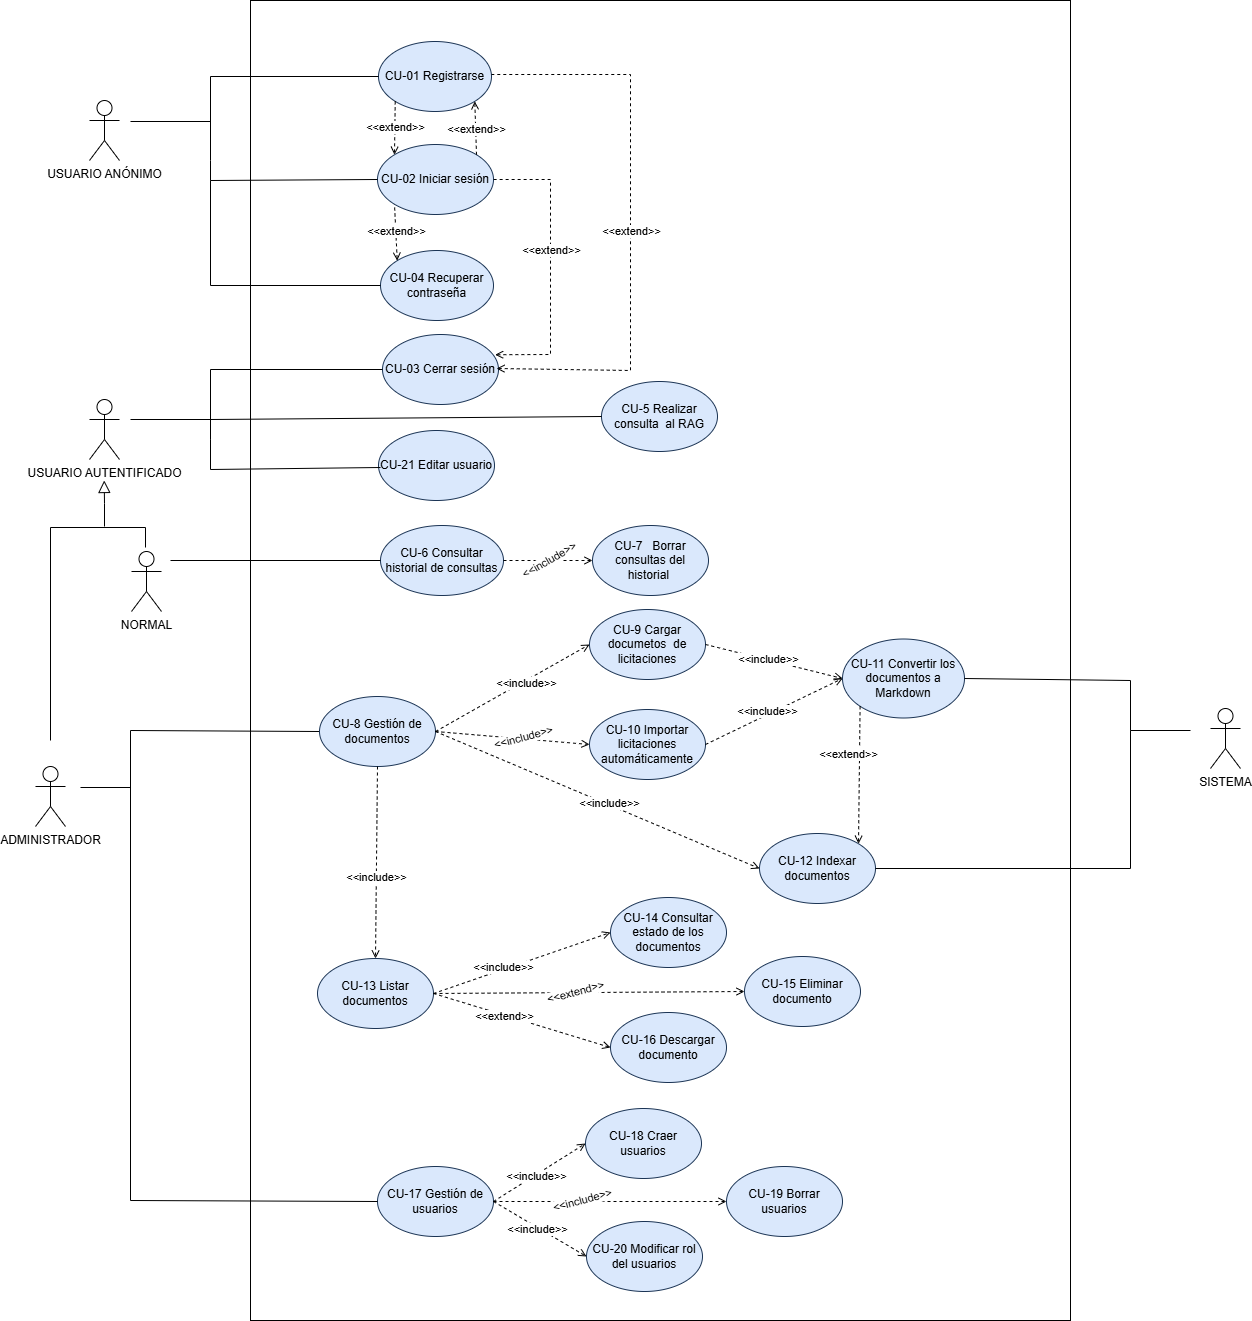
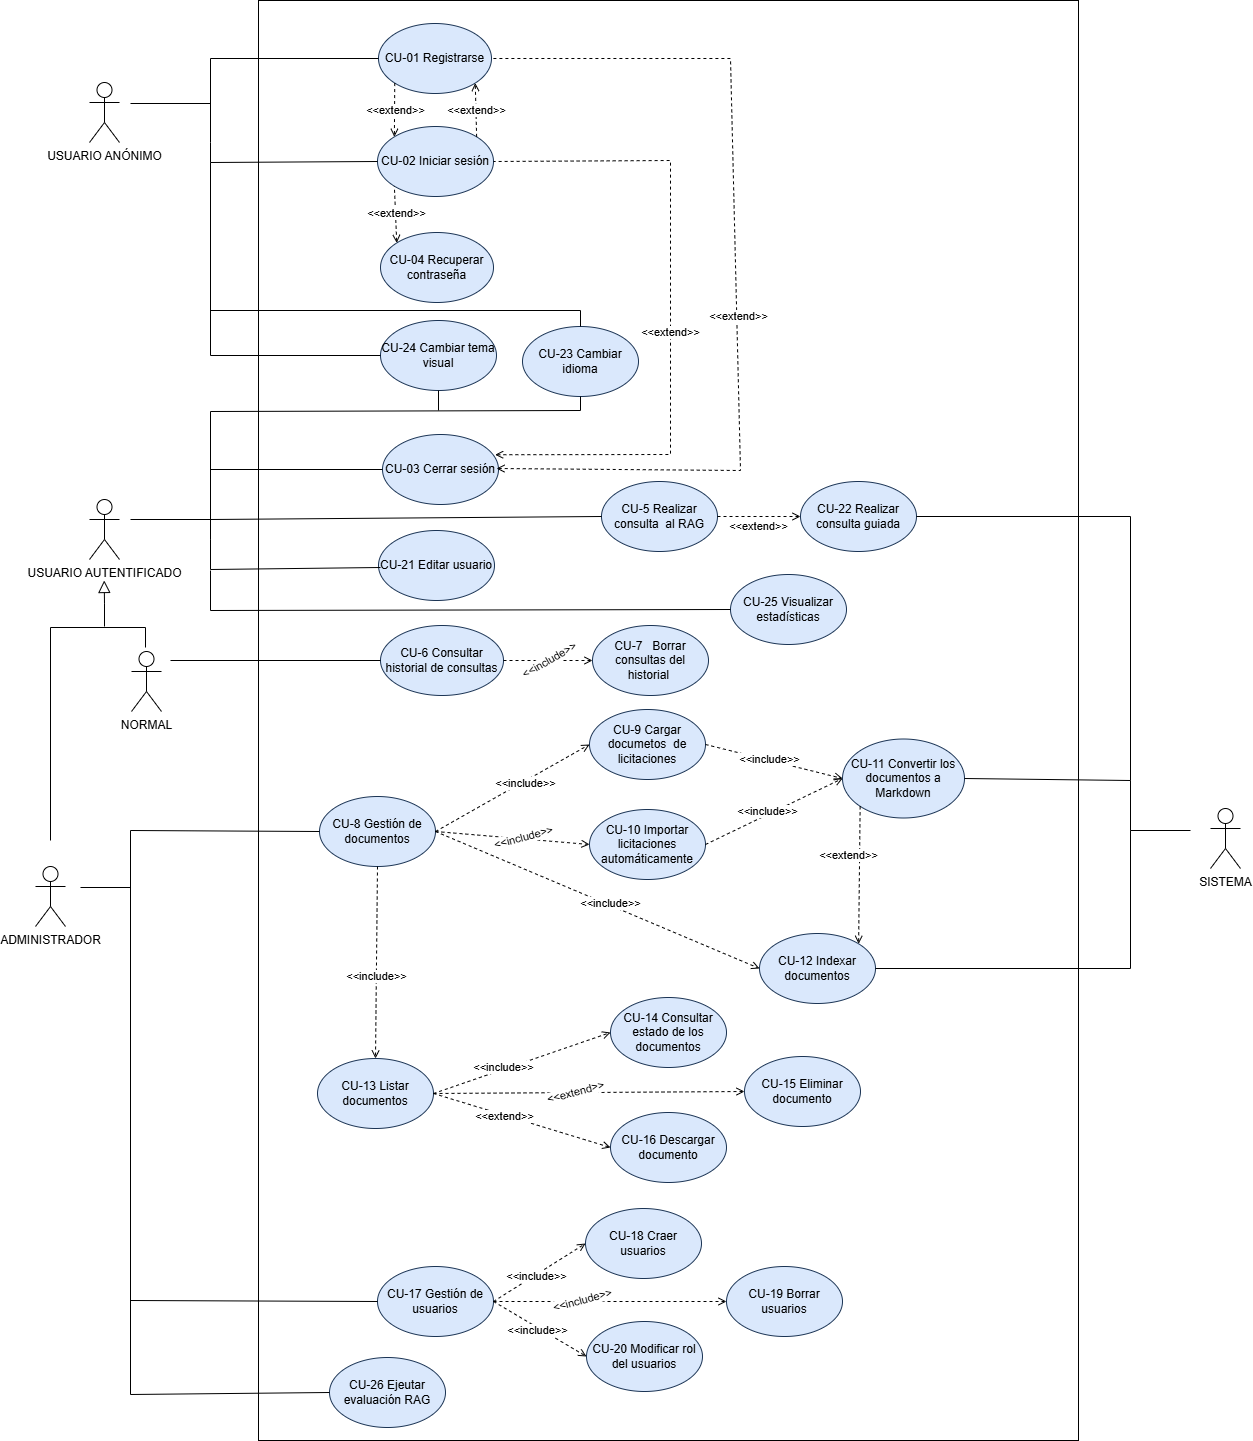
Incluidos los nuevos requisitos y casos de uso del sistema

diff --git a/docs/LaTeX/tex/B_Requisitos.tex b/docs/LaTeX/tex/B_Requisitos.tex
@@ -69,10 +69,16 @@ A continuación se van a definir los requisitos del proyecto, tanto los funciona
 	\tightlist
 		\item \req{RF-6.1} Generación de \eng{embedding}: el sistema debe generar el \eng{embedding} de la consulta del usuario.
 		\item \req{RF-6.2} Búsqueda por similitud: el sistema debe realizar una búsqueda por similitud en la base de datos vectorial.
+		\item \req{RF-6.3} Filtrado por metadatos: el sistema debe permitir filtrar al recuperación utilizando los metadatos asociados a los documentos.
 	\end{itemize}
 	\item \req{RF-7} Construcción del \eng{prompt} con contexto: el sistema debe construir un \eng{prompt}, para alimentar al \eng{LLM}, que incluya los \eng{chunks} recuperados, la pregunta del usuario e instrucciones de uso del contexto.
 	\item \req{RF-8} Generación de respuestas mediante un \eng{LLM}: el sistema debe enviar el \eng{prompt} generado a un modelo \eng{LLM} y mostrar la respuesta de dicho modelo al usuario.
-	\item \req{RF-9} Trazabilidad de respuesta: el sistema debe devolver junto con la respuesta los metadatos del documento origen y los \eng{chunks} empleados para la generación de la respuesta. 
+	\begin{itemize}
+	\tightlist
+		\item \req{RF-8.1} Selección de modelo: el sistema debe permitir utilizar distintos modelos \eng{LLM}.
+		\item \req{RF-8.2} Control de alucinaciones: el sistema debe indicar cuando no existe suficiente información relevante para responder. 
+	\end{itemize}
+	\item \req{RF-9} Trazabilidad de respuesta: el sistema debe devolver junto con la respuesta los metadatos del documento origen y los \eng{chunks} empleados para la generación de la respuesta, así como su similitud. 
 	\item \req{RF-10} Gestión de usuarios: el sistema debe permitir la gestión de usuarios a través de la aplicación web.
 	\begin{itemize}
 	\tightlist
@@ -88,12 +94,19 @@ A continuación se van a definir los requisitos del proyecto, tanto los funciona
 	\tightlist
 		\item \req{RF-11.1} Historial de consultas: los usuarios podrán ver su historial de consultas.
 		\item \req{RF-11.2} Borrar consultas: los usuarios podrán borrar consultas del historial.
+		\item \req{RF-11.3} Consultas guiadas: el sistema debe permitir realizar consultas guiadas especializadas mediante \eng{prompts} predefinidos. Debe incluir resúmenes, importes, solvencia, garantías, criterios de adjudicación y otras preguntas típicas de las licitaciones. 
 	\end{itemize}
 	\item \req{RF-12} Importación automática de licitaciones: el sistema debe permitir al administrador importar de manera automática las licitaciones mediante \eng{web scraping}.
 	\begin{itemize}
 	\tightlist
 		\item \req{RF-12.1} Descarga y almacenamiento: el sistema debe descargar y almacenar los documentos obtenidos, así como sus metadatos.
 		\item \req{RF-12.2} Gestión de errores y duplicados: el sistema debe continuar aunque la descarga de algún documento falle. Debe registrar los errores y evitar duplicados.
+	\end{itemize}
+	\item \req{RF-13} Mostrar estadísticas: el sistema debe permitir ver estadísticas y gráficos de uso y de comparación de modelos.
+	\item \req{RF-14} Evaluación del sistema \eng{RAG}: el sistema debe permitir evaluar automáticamente la calidad de las respuestas generadas. 
+	\begin{itemize}
+	\tightlist
+		\item \req{RF-14.1} Generación de \eng{datasets}: el sistema debe permitir generar \eng{dtasets} de evaluación automáticos.
 	\end{itemize}
 \end{itemize}
 
@@ -122,6 +135,13 @@ A continuación se van a definir los requisitos del proyecto, tanto los funciona
 	\item \req{RNF-9} Recuperación y tolerancia a fallos: el sistema debe disponer de mecanismos que permitan la recuperación de información y la restauración del servicio tras fallos, garantizando la integridad de los datos.
 	\item \req{RNF-10} Evitar alucinaciones: el sistema no debe responder cuando no haya contexto relevante suficiente.
 	\item \req{RNF-11} Calidad de las respuestas del \eng{LLM}: el sistema debe llevar a cabo un control de calidad de las respuestas que da el \eng{LLM} a las consultas del usuario.
+	\item \req{RNF-12} Escalabilidad: el sistema debe permitir incorporar nuevos documentos sin necesidad de reconstruir la aplicación.
+	\item \req{RNF-13} Modularidad: el sistema debe permitir sustituir componentes como el \eng{LLM}, el modelo de \eng{embeddings} o la base de datos vectorial con cambios mínimos.
+	\item \req{RNF-14} Portabilidad: la aplicación debe poder desplegarse en distintos entornos utilizando contenedores \file{Docker}.
+	\item \req{RNF-15} Mantenibilidad: el sistema debe seguir una arquitectura modular y debe estar correctamente documentado para que se facilite su mantenimiento.
+	\item \req{RNF-16} Internacionalización: el sistema debe traducirse de manera automática al inglés.
+	\item \req{RNF-17} Compatibilidad \eng{responsive}: la interfaz debe adaptarse a distintos tamaños de pantalla.
+	\item \req{RFN-18} Obsevabilidad: el sistema debe proporcionar \eng{logs} y métricas para monitorizar el estado del procesamiento y las consultas.
 \end{itemize}
 
 \section{Especificación de requisitos}
@@ -163,6 +183,11 @@ Los casos de uso definidos para el proyecto son:
 	\item \textbf{CU-19} Borrar usuario (ver tabla~\ref{req-19}).
 	\item \textbf{CU-20} Modificar rol del usuario (ver tabla~\ref{req-20}).
 	\item \textbf{CU-21} Editar usuario (ver tabla~\ref{req-21}).
+	\item \textbf{CU-22} Realizar consulta guiada (ver tabla~\ref{req-22}).
+	\item \textbf{CU-23} Cambiar idioma (ver tabla~\ref{req-23}).
+	\item \textbf{CU-24} Cambiar tema visual (ver tabla~\ref{req-24}).
+	\item \textbf{CU-25} Visualizar estadísticas (ver tabla~\ref{req-25}).
+	\item \textbf{CU-26} Ejecutar evaluación \eng{RAG} (ver tabla~\ref{req-26}).
 \end{itemize}
 El diagrama de los casos de uso se muestra en la imagen ~\ref{fig:Diagramas/CasosUso}.
 
@@ -928,3 +953,183 @@ a través de un mensaje.
 \end{table}
 
 
+\begin{table}[p]
+	\centering
+	\begin{tabularx}{\linewidth}{ p{0.21\columnwidth} p{0.71\columnwidth} }
+		\toprule
+		\textbf{\textbf{CU-22}}    & \textbf{ Realizar consulta guiada}\\
+		\toprule
+		\textbf{Versión}              & 1.0    \\
+		\textbf{Autor}                & Lydia Blanco Ruiz \\
+		\textbf{Requisitos asociados} & \refreq{RF-11}, \refreq{RF-11.3}, \refreq{RF-6}, \refreq{RF-7}, \refreq{RF-8}, \refreq{RF-9} \\
+		\textbf{Descripción}          & Permite al usuario realizar consultas utilizando un formulario que llama a \eng{prompts} especializados. \\
+		\textbf{Precondición}         & Hay un usuario autentificado y existen documentos indexados en el sistema. \\
+		\textbf{Acciones}             &
+		\begin{enumerate}
+			\def\labelenumi{\arabic{enumi}.}
+			\tightlist
+			\item El usuario accede a la interfaz de consulta.
+			\item El usuario selecciona una pregunta del formulario (resumen, importes, solvencia, garantías, criterios de adjudicación, etc.).
+			\item El usuario pulsa el botón <<Preguntar>>.
+			\item El sistema genera el \eng{embedding} de la consulta.
+			\item El sistema recupera los \eng{chunks} más relevantes.
+			\item El sistema construye el \eng{prompt} aumentado según el perfil seleccionado.
+			\item El sistema envía el \eng{prompt} al \eng{LLM}.
+			\item El sistema muestra la respuesta generada junto con la trazabilidad.
+		\end{enumerate}\\
+		\textbf{Postcondición}        & El usuario ve la respuesta y se almacena en el historial. \\
+		\textbf{Excepciones}          & 
+		\begin{enumerate}
+			\def\labelenumi{\arabic{enumi}.}
+			\tightlist
+			\item No existen documentos indexados $\Rightarrow$ Muestra un mensaje de error.
+			\item La consulta está vacía $\Rightarrow$ Muestra un mensaje indicando que debe introducirse una consulta.
+			\item No se encuentra contexto relevante $\Rightarrow$ El sistema informa de que no dispone de información suficiente.
+			\item El \eng{LLM} no responde o se produce un \eng{timeout} $\Rightarrow$ Muestra un mensaje de error controlado.
+		\end{enumerate}\\
+		\textbf{Importancia}          & Alta.  \\
+		\bottomrule
+	\end{tabularx}
+	\caption{\textbf{CU-22} Realizar consulta guiada.}
+	\label{req-22}
+\end{table}
+
+\begin{table}[p]
+	\centering
+	\begin{tabularx}{\linewidth}{ p{0.21\columnwidth} p{0.71\columnwidth} }
+		\toprule
+		\textbf{\textbf{CU-23}}    & \textbf{ Cambiar idioma}\\
+		\toprule
+		\textbf{Versión}              & 1.0    \\
+		\textbf{Autor}                & Lydia Blanco Ruiz \\
+		\textbf{Requisitos asociados} & \refreq{RNF-16} \\
+		\textbf{Descripción}          & Permite al usuario cambiar el idioma de la interfaz de la aplicación. \\
+		\textbf{Precondición}         & Un usuario accede a la aplicación \eng{web}. \\
+		\textbf{Acciones}             &
+		\begin{enumerate}
+			\def\labelenumi{\arabic{enumi}.}
+			\tightlist
+			\item El usuario accede a la aplicación \eng{web}.
+			\item El usuario selecciona el idioma deseado
+			\item El sistema recarga la interfaz mostrando los textos traducidos.
+			\item Si el usuario está autenticado el sistema guarda la preferencia de idioma.
+		\end{enumerate}\\
+		\textbf{Postcondición}        & La aplicación se muestra en el idioma seleccionado. \\
+		\textbf{Excepciones}          & 
+		\begin{enumerate}
+			\def\labelenumi{\arabic{enumi}.}
+			\tightlist
+			\item El idioma seleccionado no está disponible $\Rightarrow$ El sistema mantiene el idioma actual.
+			\item Error al guardar la preferencia $\Rightarrow$ Muestra un mensaje de error.
+		\end{enumerate}\\
+		\textbf{Importancia}          & Media.  \\
+		\bottomrule
+	\end{tabularx}
+	\caption{\textbf{CU-23} Cambiar idioma.}
+	\label{req-23}
+\end{table}
+
+\begin{table}[p]
+	\centering
+	\begin{tabularx}{\linewidth}{ p{0.21\columnwidth} p{0.71\columnwidth} }
+		\toprule
+		\textbf{\textbf{CU-24}}    & \textbf{ Cambiar tema visual}\\
+		\toprule
+		\textbf{Versión}              & 1.0    \\
+		\textbf{Autor}                & Lydia Blanco Ruiz \\
+		\textbf{Requisitos asociados} & \refreq{RNF-6}, \refreq{RNF-17}\\
+		\textbf{Descripción}          & Permite al usuario cambiar entre el modo claro y el modo oscuro. Por defecto se muestra en el modo de l sistema. \\
+		\textbf{Precondición}         & Un usuario accede a la aplicación \eng{web}. \\
+		\textbf{Acciones}             &
+		\begin{enumerate}
+			\def\labelenumi{\arabic{enumi}.}
+			\tightlist
+			\item El usuario accede a la aplicación \eng{web}.
+			\item El usuario selecciona el tema deseado.
+			\item El sistema recarga la interfaz mostrando los elementos visuales del tema seleccionado.
+			\item Si el usuario está autenticado el sistema guarda la preferencia de modo.
+		\end{enumerate}\\
+		\textbf{Postcondición}        & La aplicación se muestra utilizando el tema seleccionado (claro/oscuro). \\
+		\textbf{Excepciones}          & 
+		\begin{enumerate}
+			\def\labelenumi{\arabic{enumi}.}
+			\tightlist
+			\item Error al guardar la preferencia $\Rightarrow$ Muestra un mensaje de error.
+		\end{enumerate}\\
+		\textbf{Importancia}          & Media.  \\
+		\bottomrule
+	\end{tabularx}
+	\caption{\textbf{CU-24} Cambiar tema visual.}
+	\label{req-24}
+\end{table}
+
+\begin{table}[p]
+	\centering
+	\begin{tabularx}{\linewidth}{ p{0.21\columnwidth} p{0.71\columnwidth} }
+		\toprule
+		\textbf{\textbf{CU-25}}    & \textbf{ Visualizar estadísticas}\\
+		\toprule
+		\textbf{Versión}              & 1.0    \\
+		\textbf{Autor}                & Lydia Blanco Ruiz \\
+		\textbf{Requisitos asociados} & \refreq{RF-13}, \refreq{RNF-6}\\
+		\textbf{Descripción}          & Permite visualizar estadísticas y gráficas relacionadas con el uso de la aplicación por parte de los usuarios y comparativas entre los modelos \eng{LLM} cargados en el sistema. \\
+		\textbf{Precondición}         & Hay un usuario autentificado y existen datos registrados en el sistema. \\
+		\textbf{Acciones}             &
+		\begin{enumerate}
+			\def\labelenumi{\arabic{enumi}.}
+			\tightlist
+			\item El usuario accede a la página de estadísticas.
+			\item El sistema recupera los datos almacenados.
+			\item El sistema genera gráficas y métricas mediante \file{D3.js}.
+			\item El usuario ve las gráficas disponibles para su rol.
+		\end{enumerate}\\
+		\textbf{Postcondición}        & La aplicación muestra las gráficas y estadísticas. \\
+		\textbf{Excepciones}          & 
+		\begin{enumerate}
+			\def\labelenumi{\arabic{enumi}.}
+			\tightlist
+			\item No existen datos suficientes $\Rightarrow$ El sistema muestra un mensaje informativo.
+			\item Error al cargar las estadísticas $\Rightarrow$ Muestra un mensaje de error.
+		\end{enumerate}\\
+		\textbf{Importancia}          & Media.  \\
+		\bottomrule
+	\end{tabularx}
+	\caption{\textbf{CU-25} Visualizar estadísticas.}
+	\label{req-25}
+\end{table}
+
+\begin{table}[p]
+	\centering
+	\begin{tabularx}{\linewidth}{ p{0.21\columnwidth} p{0.71\columnwidth} }
+		\toprule
+		\textbf{\textbf{CU-26}}    & \textbf{ Ejecutar evaluación \eng{RAG}}\\
+		\toprule
+		\textbf{Versión}              & 1.0    \\
+		\textbf{Autor}                & Lydia Blanco Ruiz \\
+		\textbf{Requisitos asociados} & \refreq{RF-14}, \refreq{RF-14.1}, \refreq{RNF-11} \\
+		\textbf{Descripción}          & Permite al administrador ejecutar evaluaciones automáticas sobre la calidad del \eng{RAG}. \\
+		\textbf{Precondición}         & Hay un administrador autentificado y existen documentos indexados en la base de datos vectorial. \\
+		\textbf{Acciones}             &
+		\begin{enumerate}
+			\def\labelenumi{\arabic{enumi}.}
+			\tightlist
+			\item El administrador accede a la página de evaluación.
+			\item El administrador selecciona el modelo y configuración de evaluación.
+			\item Se ejecuta el \eng{pipeline} de evaluación.		
+			\item El sistema almacena los resultados obtenidos.
+			\item El sistema muestra las métricas y resultados de evaluación.
+			\end{enumerate}\\
+		\textbf{Postcondición}        & Los resultados de la evaluación quedan almacenados y disponibles para su consulta. \\
+		\textbf{Excepciones}          & 
+		\begin{enumerate}
+			\def\labelenumi{\arabic{enumi}.}
+			\tightlist
+			\item Error durante la ejecución de las métricas $\Rightarrow$ El sistema registra el error y detiene la evaluación.
+			\item El modelo \eng{LLM} no responde $\Rightarrow$ Muestra un mensaje de \eng{timeout} o error controlado.
+		\end{enumerate}\\
+		\textbf{Importancia}          & Alta.  \\
+		\bottomrule
+	\end{tabularx}
+	\caption{\textbf{CU-26} Ejecutar evaluación \eng{RAG}.}
+	\label{req-26}
+\end{table}